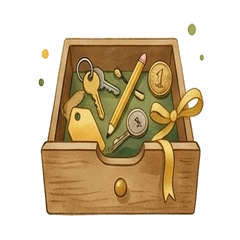
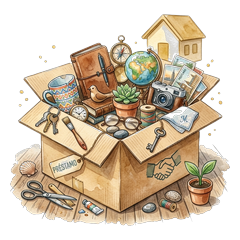
Add files via upload

diff --git a/app.jsx b/app.jsx
@@ -643,35 +643,13 @@ function FinancialHealthPanel({ data, currency, setDailyEstimate }) {
 
   return (
     <div className="mx-4 mb-4 bg-white rounded-2xl border border-slate-100 p-4 flex flex-col gap-3">
-      <div className="text-sm font-bold text-slate-700 flex items-center gap-2">
-        <img src="apple-touch-icon.png" alt="" className="w-5 h-5 rounded" />
-        {panelTitle}
+      <div className="flex flex-col items-center gap-1.5 text-center">
+        <img src="apple-touch-icon.png" alt="" className="w-9 h-9 rounded-lg" />
+        <div className="text-2xl font-bold text-slate-700">{panelTitle}</div>
       </div>
       <div className={`rounded-xl p-2.5 flex items-start gap-2 ${status.bg}`}>
         <span>{status.emoji}</span>
-        <span className={`text-xs font-semibold ${status.text}`}>{status.label}</span>
-      </div>
-      <div className="flex items-center justify-between text-xs text-slate-500">
-        <span>Saldo del mes ({diasHastaIngreso} días para el próximo ingreso)</span>
-        <span className={`font-semibold ${saldoActual >= 0 ? "text-sky-600" : "text-rose-600"}`}>{fmt(saldoActual, currency)}</span>
-      </div>
-      <div className="text-[10px] text-slate-400">
-        {!editingDaily ? (
-          <button onClick={() => { setDailyInput(String(dailyEstimate)); setEditingDaily(true); }} className="underline">
-            ⚙ Gasto diario estimado (2 personas): {fmt(dailyEstimate, currency)}/día
-          </button>
-        ) : (
-          <div className="flex items-center gap-2 flex-wrap">
-            <input
-              type="number"
-              value={dailyInput}
-              onChange={(e) => setDailyInput(e.target.value)}
-              className="w-24 border border-slate-300 rounded-lg px-2 py-1 text-slate-700 text-xs"
-            />
-            <button onClick={saveDaily} className="text-emerald-600 font-semibold">Guardar</button>
-            <button onClick={() => setEditingDaily(false)} className="text-slate-400">Cancelar</button>
-          </div>
-        )}
+        <span className={`text-xs font-semibold ${status.text}`}>Estado: {status.label}</span>
       </div>
 
       <div className="flex flex-col gap-2.5 pt-1">
@@ -698,6 +676,29 @@ function FinancialHealthPanel({ data, currency, setDailyEstimate }) {
           <span className="flex items-center gap-1"><span className="w-2 h-2 rounded-full bg-rose-400" /> Gastos variables</span>
         </div>
       </div>
+
+      <div className="flex items-center justify-between text-xs text-slate-500 pt-2 border-t border-slate-100">
+        <span>Saldo del mes ({diasHastaIngreso} días para el próximo ingreso)</span>
+        <span className={`font-semibold ${saldoActual >= 0 ? "text-sky-600" : "text-rose-600"}`}>{fmt(saldoActual, currency)}</span>
+      </div>
+      <div className="text-[10px] text-slate-400">
+        {!editingDaily ? (
+          <button onClick={() => { setDailyInput(String(dailyEstimate)); setEditingDaily(true); }} className="underline">
+            ⚙ Gasto diario estimado (2 personas): {fmt(dailyEstimate, currency)}/día
+          </button>
+        ) : (
+          <div className="flex items-center gap-2 flex-wrap">
+            <input
+              type="number"
+              value={dailyInput}
+              onChange={(e) => setDailyInput(e.target.value)}
+              className="w-24 border border-slate-300 rounded-lg px-2 py-1 text-slate-700 text-xs"
+            />
+            <button onClick={saveDaily} className="text-emerald-600 font-semibold">Guardar</button>
+            <button onClick={() => setEditingDaily(false)} className="text-slate-400">Cancelar</button>
+          </div>
+        )}
+      </div>
     </div>
   );
 }
@@ -710,7 +711,7 @@ function EntryTab({ addTransaction, config, data, setHiddenLoans, setFxRate, set
   const [amount, setAmount] = useState("0");
   const [concept, setConcept] = useState("");
   const [paymentMethod, setPaymentMethod] = useState("no_credito");
-  const [currency, setCurrency] = useState(config.lastCurrency || "CHF");
+  const [currency, setCurrency] = useState("CHF");
   const [dateInput, setDateInput] = useState(toDatetimeLocalValue(new Date()));
   const [editingDate, setEditingDate] = useState(false);
   const [simMonto, setSimMonto] = useState("");
